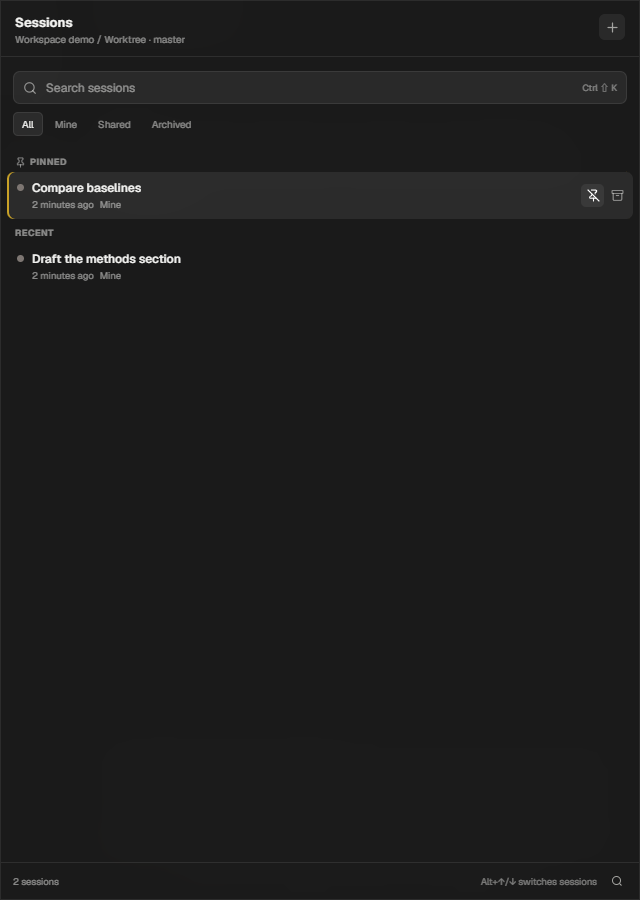
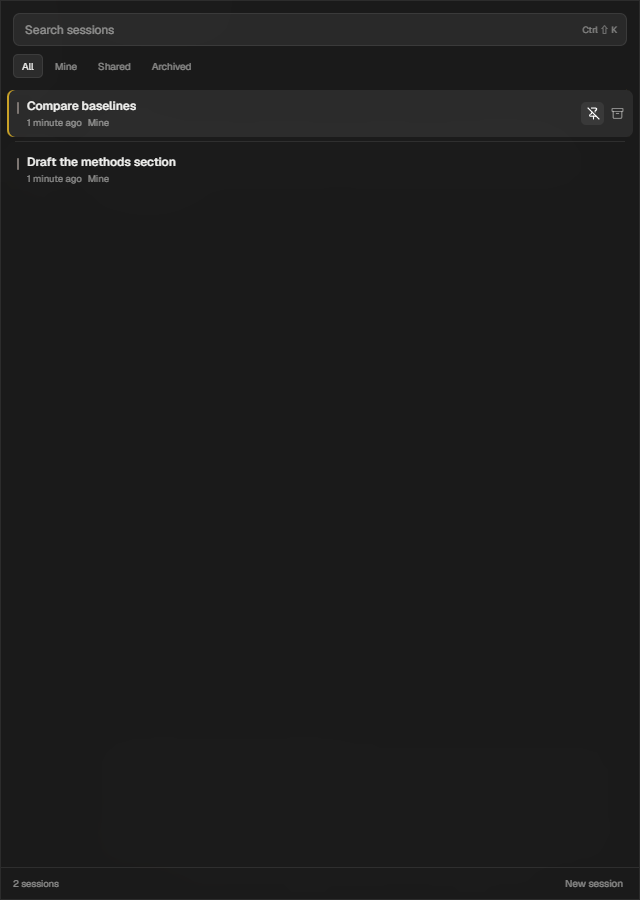
style(workspace): simplify the breadcrumb and session switcher
Remove the custom popover header, subtitle, and decorative icons. The breadcrumb drops the workspace glyph, the session chip becomes a borderless text button, and session status uses the same thin rectangular bar as the Proactive agent. Pinned sessions are separated by a divider instead of extra group headings, and the footer keeps only the count and a text New session action.

diff --git a/src/SessionSwitcher.tsx b/src/SessionSwitcher.tsx
@@ -3,18 +3,14 @@ import {
   Archive,
   ArchiveRestore,
   Box,
-  Check,
   ChevronDown,
-  Folder,
   GitBranch,
   Lock,
   Pin,
   PinOff,
-  Plus,
-  Search,
   Trash,
 } from "lucide-react";
-import { MenuDivider, MenuLabel, MenuItem, MenuSurface } from "./Menu";
+import { MenuDivider, MenuItem, MenuSurface } from "./Menu";
 import { useUISettings } from "./i18n";
 
 type SessionFilter = "all" | "mine" | "shared" | "archived";
@@ -125,7 +121,6 @@ export default function SessionSwitcher({
   const { t, language } = useUISettings();
   const sessionButtonRef = useRef<HTMLButtonElement | null>(null);
   const workspaceButtonRef = useRef<HTMLButtonElement | null>(null);
-  const searchRef = useRef<HTMLInputElement | null>(null);
   const [sessionOpen, setSessionOpen] = useState(false);
   const [workspaceOpen, setWorkspaceOpen] = useState(false);
   const [query, setQuery] = useState("");
@@ -167,11 +162,6 @@ export default function SessionSwitcher({
     onOpenSession(session);
   }
 
-  function openSearch() {
-    setSessionOpen(true);
-    requestAnimationFrame(() => searchRef.current?.focus());
-  }
-
   function renderSessionRow(session: ResearchThread) {
     const status = sessionStatus(session, runningThreadId);
     const pinnedNow = isPinned(session);
@@ -188,7 +178,6 @@ export default function SessionSwitcher({
             {session.title}
           </span>
           <span className="session-row-meta">
-            {status !== "idle" && <span className={`session-row-state ${status}`}>{statusLabel(status, t)}</span>}
             <span>{relativeTime(session.last_turn_at || session.updated_at, language)}</span>
             {session.owner_id === currentUserId && <span>{t("Mine")}</span>}
           </span>
@@ -225,7 +214,6 @@ export default function SessionSwitcher({
           aria-haspopup="dialog"
           aria-expanded={workspaceOpen}
         >
-          {workspace?.kind === "worktree" ? <GitBranch size={12} /> : workspace?.kind === "sandbox" ? <Box size={12} /> : <Folder size={12} />}
           <span>{workspaceLabel(workspace, t)}</span>
           <ChevronDown size={12} />
         </button>
@@ -257,13 +245,6 @@ export default function SessionSwitcher({
       ariaLabel={t("Workspaces")}
       className="workspace-switcher-popover"
     >
-      <div className="session-switcher-head">
-        <div>
-          <strong>{t("Workspaces")}</strong>
-          <small>{gitState}</small>
-        </div>
-        <Box size={16} aria-hidden="true" />
-      </div>
       <div className="workspace-list">
         {workspaces.map((entry) => <div className={`workspace-option${entry.id === workspace?.id ? " active" : ""}`} key={entry.id}>
           <button
@@ -271,15 +252,11 @@ export default function SessionSwitcher({
             onClick={() => { setWorkspaceOpen(false); onSelectWorkspace(entry); }}
             title={entry.root}
           >
-            <span className="workspace-option-icon">
-              {entry.kind === "worktree" ? <GitBranch size={14} /> : entry.kind === "sandbox" ? <Box size={14} /> : <Folder size={14} />}
-            </span>
             <span className="workspace-option-copy">
               <span>{workspaceLabel(entry, t)}</span>
               <small>{entry.root}</small>
             </span>
             <span className="workspace-option-count">{entry.session_count}</span>
-            {entry.id === workspace?.id && <Check size={14} aria-hidden="true" />}
           </button>
           {!entry.is_default && <button
             className="workspace-option-delete"
@@ -290,7 +267,6 @@ export default function SessionSwitcher({
         </div>)}
       </div>
       <MenuDivider />
-      <MenuLabel>{t("New isolated workspace")}</MenuLabel>
       <MenuItem
         icon={<GitBranch size={16} />}
         disabled={!canWorktree || creatingWorkspace}
@@ -302,7 +278,6 @@ export default function SessionSwitcher({
         disabled={creatingWorkspace}
         onClick={() => { setWorkspaceOpen(false); onCreateWorkspace("sandbox"); }}
       >{t("New sandbox")}</MenuItem>
-      <div className="workspace-git-note">{gitState}</div>
     </MenuSurface>
 
     <MenuSurface
@@ -317,19 +292,8 @@ export default function SessionSwitcher({
       ariaLabel={t("Sessions")}
       className="session-switcher-popover"
     >
-      <div className="session-switcher-head">
-        <div>
-          <strong>{t("Sessions")}</strong>
-          <small>{project?.name || t("No project")} / {workspaceLabel(workspace, t)}</small>
-        </div>
-        <button className="session-new-button" onClick={() => { setSessionOpen(false); onNewSession(); }} title={t("New session")} aria-label={t("New session")}>
-          <Plus size={15} />
-        </button>
-      </div>
       <label className="session-search">
-        <Search size={14} aria-hidden="true" />
         <input
-          ref={searchRef}
           value={query}
           onChange={(event) => setQuery(event.target.value)}
           placeholder={t("Search sessions")}
@@ -352,14 +316,9 @@ export default function SessionSwitcher({
         >{id === "all" ? t("All") : id === "mine" ? t("Mine") : id === "shared" ? t("Shared") : t("Archived")}</button>)}
       </div>
       <div className="session-list">
-        {pinned.length > 0 && <>
-          <div className="session-group-label"><Pin size={11} />{t("Pinned")}</div>
-          {pinned.map(renderSessionRow)}
-        </>}
-        {rest.length > 0 && <>
-          {pinned.length > 0 && <div className="session-group-label">{filter === "archived" ? t("Archived") : t("Recent")}</div>}
-          {rest.map(renderSessionRow)}
-        </>}
+        {pinned.map(renderSessionRow)}
+        {pinned.length > 0 && rest.length > 0 && <MenuDivider />}
+        {rest.map(renderSessionRow)}
         {!filtered.length && <div className="session-empty">
           <strong>{filter === "archived" ? t("No archived sessions") : query ? t("No sessions match") : t("No sessions here yet")}</strong>
           <span>{t("Sessions stay inside their workspace, so switching does not move files.")}</span>
@@ -368,8 +327,7 @@ export default function SessionSwitcher({
       </div>
       <div className="session-switcher-foot">
         <span>{filtered.length === 1 ? t("{count} session", { count: 1 }) : t("{count} sessions", { count: filtered.length })}</span>
-        <span className="session-foot-hint">{t("Alt+↑/↓ switches sessions")}</span>
-        <button className="session-open-search" onClick={openSearch} title={t("Focus search")} aria-label={t("Focus search")}><Search size={12} /></button>
+        <button className="session-new-link" onClick={() => { setSessionOpen(false); onNewSession(); }}>{t("New session")}</button>
       </div>
     </MenuSurface>
   </>;

diff --git a/src/styles.css b/src/styles.css
@@ -10006,22 +10006,21 @@ html[data-file-icons="opencode"] .workspace-tree-row.is-directory .tree-file-ico
   display: inline-flex;
   min-width: 0;
   max-width: min(34vw, 380px);
-  height: 28px;
+  height: 27px;
   flex: 0 1 auto;
   align-items: center;
   gap: 7px;
-  padding: 0 9px;
+  padding: 0 6px;
   color: var(--text-secondary);
   background: transparent;
-  border: 1px solid var(--border-soft);
-  border-radius: 999px;
+  border: 0;
+  border-radius: 6px;
   font-size: 11px;
 }
 .session-chip:hover,
 .session-chip.open {
   color: var(--menu-ink);
   background: var(--menu-hover-bg);
-  border-color: var(--border-default);
 }
 .session-chip-title {
   min-width: 0;
@@ -10032,43 +10031,18 @@ html[data-file-icons="opencode"] .workspace-tree-row.is-directory .tree-file-ico
 }
 .session-chip > svg { flex: 0 0 auto; }
 .session-status {
-  width: 7px;
-  height: 7px;
+  width: 2px;
+  height: 12px;
   flex: 0 0 auto;
   background: var(--text-faint);
-  border-radius: 50%;
+  border-radius: 1px;
 }
-.session-status.running { background: var(--state-success); box-shadow: 0 0 0 3px color-mix(in srgb, var(--state-success) 18%, transparent); }
+.session-status.running { background: var(--accent); animation: sidebar-running-sheen 2.1s linear infinite; }
 .session-status.review { background: var(--state-warning); }
 .session-status.failed { background: var(--state-danger); }
 .session-status.unread { background: var(--accent); }
 
 .menu-surface.session-switcher-popover { padding: 0; overflow: hidden; }
-.session-switcher-head {
-  display: flex;
-  align-items: flex-start;
-  justify-content: space-between;
-  gap: 12px;
-  padding: 13px 14px 10px;
-  border-bottom: 1px solid var(--menu-divider);
-}
-.session-switcher-head > div { min-width: 0; }
-.session-switcher-head strong { display: block; color: var(--menu-ink); font-size: 13px; font-weight: 680; }
-.session-switcher-head small { display: block; margin-top: 2px; overflow: hidden; color: var(--menu-muted); font-size: 10px; text-overflow: ellipsis; white-space: nowrap; }
-.session-switcher-head > svg { color: var(--menu-icon); }
-.session-new-button,
-.session-open-search {
-  display: grid;
-  width: 26px;
-  height: 26px;
-  flex: 0 0 auto;
-  place-items: center;
-  color: var(--menu-icon);
-  background: var(--menu-hover-bg);
-  border-radius: 6px;
-}
-.session-new-button:hover,
-.session-open-search:hover { color: var(--menu-hover-ink); background: var(--menu-selected-bg); }
 .session-search {
   display: flex;
   align-items: center;
@@ -10119,17 +10093,6 @@ html[data-file-icons="opencode"] .workspace-tree-row.is-directory .tree-file-ico
   padding: 0 6px 6px;
   scrollbar-width: thin;
 }
-.session-group-label {
-  display: flex;
-  align-items: center;
-  gap: 4px;
-  padding: 8px 8px 4px;
-  color: var(--menu-muted);
-  font-size: 9px;
-  font-weight: 700;
-  letter-spacing: .06em;
-  text-transform: uppercase;
-}
 .session-row {
   display: flex;
   align-items: stretch;
@@ -10172,10 +10135,6 @@ html[data-file-icons="opencode"] .workspace-tree-row.is-directory .tree-file-ico
   color: var(--menu-muted);
   font-size: 9.5px;
 }
-.session-row-state.running { color: var(--state-success); }
-.session-row-state.review { color: var(--state-warning); }
-.session-row-state.failed { color: var(--state-danger); }
-.session-row-state.unread { color: var(--accent); }
 .session-row-actions {
   display: flex;
   flex: 0 0 auto;
@@ -10212,14 +10171,21 @@ html[data-file-icons="opencode"] .workspace-tree-row.is-directory .tree-file-ico
 .session-switcher-foot {
   display: flex;
   align-items: center;
+  justify-content: space-between;
   gap: 8px;
   padding: 7px 12px;
   color: var(--menu-muted);
   border-top: 1px solid var(--menu-divider);
   font-size: 9.5px;
 }
-.session-foot-hint { margin-left: auto; color: var(--menu-shortcut); }
-.session-open-search { width: 22px; height: 22px; background: transparent; }
+.session-new-link {
+  padding: 2px 4px;
+  color: var(--menu-muted);
+  background: transparent;
+  border-radius: 4px;
+  font-size: 10px;
+}
+.session-new-link:hover { color: var(--menu-hover-ink); background: var(--menu-hover-bg); }
 
 .workspace-list { display: grid; gap: 2px; padding: 4px 6px 8px; }
 .workspace-option { display: flex; align-items: stretch; border-radius: 7px; }
@@ -10237,16 +10203,6 @@ html[data-file-icons="opencode"] .workspace-tree-row.is-directory .tree-file-ico
   background: transparent;
   text-align: left;
 }
-.workspace-option-icon {
-  display: grid;
-  width: 24px;
-  height: 24px;
-  flex: 0 0 auto;
-  place-items: center;
-  color: var(--menu-icon);
-  background: var(--menu-hover-bg);
-  border-radius: 6px;
-}
 .workspace-option-copy { display: grid; min-width: 0; flex: 1; gap: 1px; }
 .workspace-option-copy > span { overflow: hidden; color: var(--menu-ink); font-size: 11.5px; font-weight: 600; text-overflow: ellipsis; white-space: nowrap; }
 .workspace-option-copy small { overflow: hidden; color: var(--menu-muted); font-size: 9px; text-overflow: ellipsis; white-space: nowrap; }
@@ -10260,12 +10216,6 @@ html[data-file-icons="opencode"] .workspace-tree-row.is-directory .tree-file-ico
   border-radius: 5px;
 }
 .workspace-option-delete:hover { color: var(--menu-danger); background: var(--menu-danger-hover-bg); }
-.workspace-git-note {
-  padding: 4px 14px 10px;
-  color: var(--menu-muted);
-  font-size: 9.5px;
-  line-height: 1.4;
-}
 
 @media (hover: none) {
   .session-row-actions { opacity: 1; }
@@ -10289,13 +10239,11 @@ html[data-file-icons="opencode"] .workspace-tree-row.is-directory .tree-file-ico
     max-height: none;
     flex: 1 1 auto;
   }
-  .session-switcher-popover .session-switcher-head,
   .session-switcher-popover .session-search,
   .session-switcher-popover .session-filters,
-  .session-switcher-popover .session-switcher-foot,
-  .workspace-switcher-popover .session-switcher-head { flex: 0 0 auto; }
+  .session-switcher-popover .session-switcher-foot { flex: 0 0 auto; }
   .workspace-switcher-popover .workspace-list { min-height: 0; overflow-y: auto; flex: 1 1 auto; }
-  .session-switcher-popover .session-search { margin-top: 14px; }
+  .session-switcher-popover .session-search { margin-top: 12px; }
   .session-switcher-popover .session-filters { flex-wrap: wrap; padding-bottom: 12px; }
   .toolbar-breadcrumb { display: none; }
   .session-chip { max-width: 54vw; }
